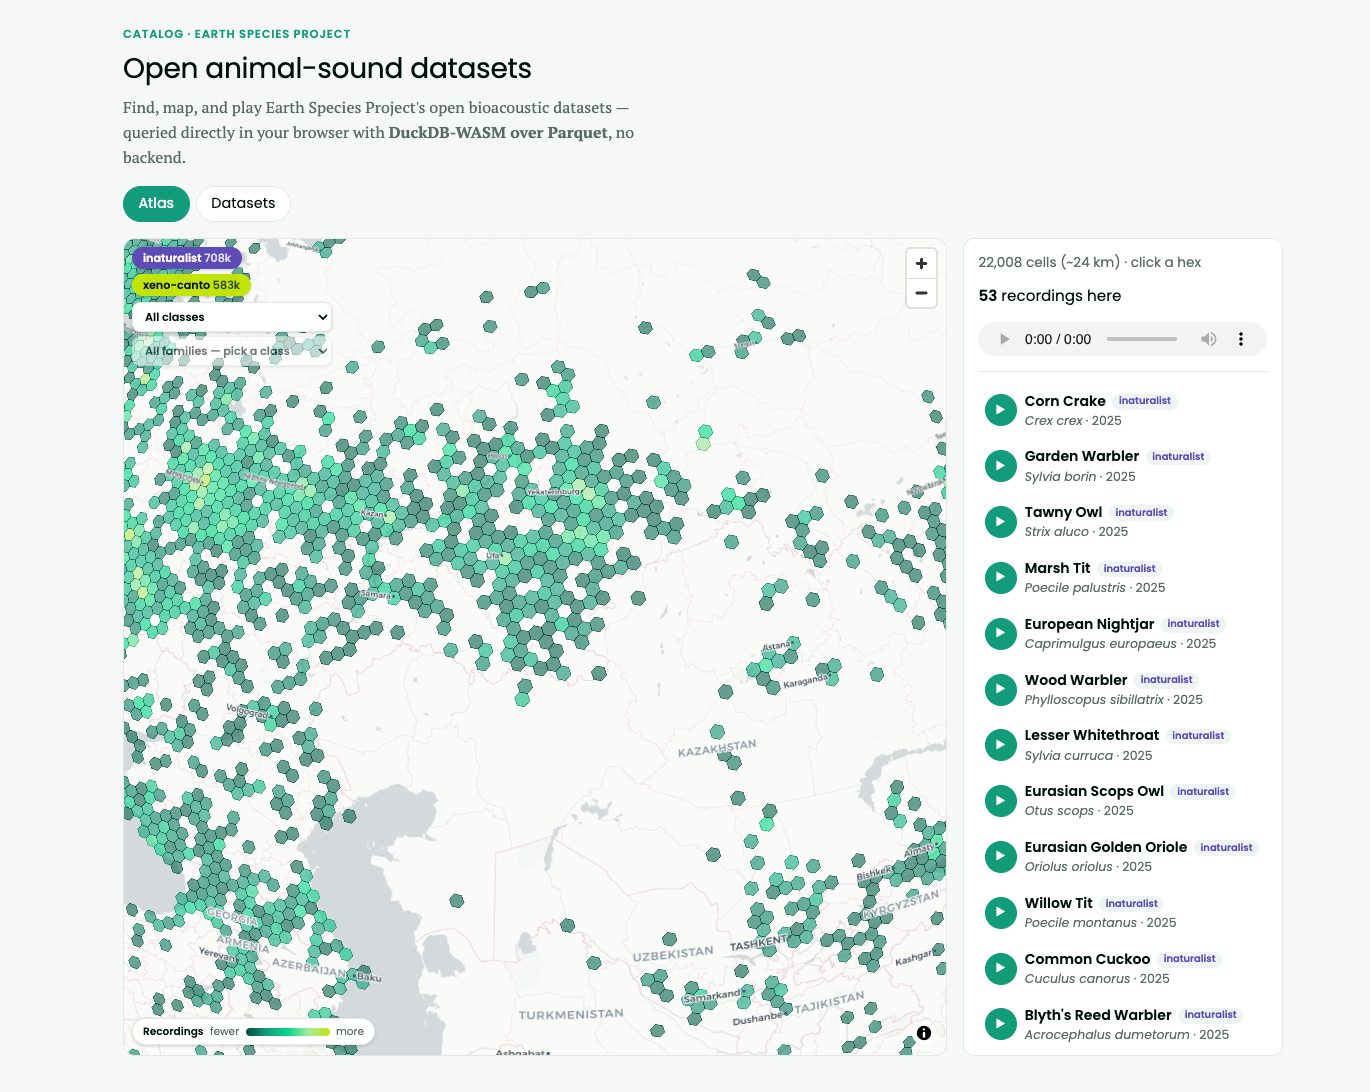
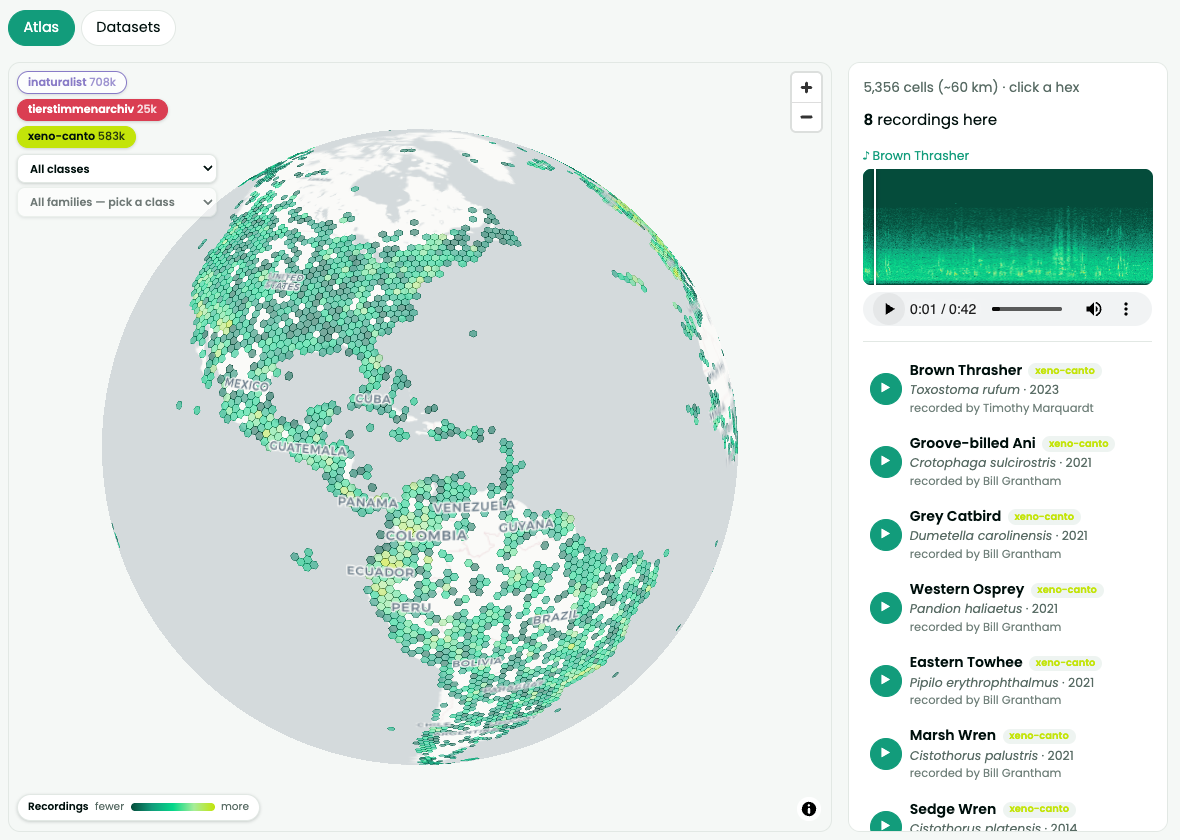
docs: update content, nav restructure, and README contributing section
- Restructure nav with Resources section (API Reference, Explorer, Get Involved)
- Update explorer page description and home page intro
- Fix bullet list rendering in datasets overview
- Rewrite README contributing section with Discourse and GitHub links
- Update community page copy

diff --git a/README.md b/README.md
@@ -2,7 +2,7 @@
 
 [![License: MIT](https://img.shields.io/badge/License-MIT-yellow.svg)](LICENSE)
 
-**alp-data** gives you unified access to dozens of bioacoustic datasets, including recordings from birds, marine mammals, primates, insects, anurans, and multi-taxon benchmarks. Every built-in dataset shares a common `Dataset` interface, with streaming, configurable transforms, and consistent loading regardless of source format.
+**alp-data** (<a href="https://earthspecies.org/2026/04/02/animal-language-processing-an-ai-convergence-in-animal-communication/" target="_blank" rel="noopener">Animal Language Processing</a> data) gives you unified access to dozens of bioacoustic datasets, including recordings from birds, marine mammals, primates, insects, anurans, and multi-taxon benchmarks. Every built-in dataset shares a common `Dataset` interface, with streaming, configurable transforms, and consistent loading regardless of source format.
 
 ## Why alp-data
 
@@ -14,7 +14,7 @@ You can stand up a multi-dataset benchmark, compare models across taxa, or strea
 
 ## What's included
 
-alp-data ships with 30+ built-in datasets across:
+alp-data ships with 35+ built-in datasets across:
 
 - **Birds** — large benchmarks including BirdSet (6,800+ training hours, 10,000 species) and WABAD (1,192 species, 72 sites); aggregator corpora like Xeno-Canto; and site- or species-specific recordings spanning arctic species, Hawaiian soundscapes, the Powdermill dawn chorus, and individual-ID datasets for chiffchaff, little owl, and tree pipit.
 - **Marine mammals** — the Watkins Marine Mammal Sound Database (~13,700 clips across ~50 cetacean and pinniped species), DCLDE 2026 killer whale annotations, dolphin whistle and click corpora
@@ -154,4 +154,6 @@ The datasets accessed through alp-data are governed by their own licenses, set b
 
 ## Contributing
 
-For improvements, bug reports, or proposals, open an issue or pull request.
+If you're working with a bioacoustic dataset you'd like to see in alp-data, <a href="https://forms.gle/qjq2HQiTDkbkLq7K7" target="_blank" rel="noopener">submit this form</a> and the engineering team will follow up. 
+
+For questions and further discussion, join our <a href="https://earthspeciesproject.discourse.group/" target="_blank" rel="noopener">Discourse forum</a>. To report a bug, open an issue on <a href="https://github.com/earthspecies/alp-data/issues" target="_blank" rel="noopener">Github</a>. 

diff --git a/docs/home.md b/docs/home.md
@@ -4,6 +4,9 @@
 
 `alp-data` (<a href="https://earthspecies.org/2026/04/02/animal-language-processing-an-ai-convergence-in-animal-communication/" target="_blank" rel="noopener">Animal Language Processing</a> data) is a <a href="https://pypi.org/project/alp-data/" target="_blank" rel="noopener">Python package</a> that provides access to 35+ bioacoustic datasets behind one unified interface. Designed to support machine learning across species, the current datasets cover birds, marine mammals, primates, insects, anurans, and multi-taxon benchmarks.
 
+This is the first piece of shared infrastructure for Animal Language Processing (ALP), an AI-powered, data-driven, and species-agnostic approach to studying animal communication introduced in <a href="https://earthspecies.org/2026/04/02/animal-language-processing-an-ai-convergence-in-animal-communication/" target="_blank" rel="noopener">April 2026</a>. ALP's promise of working across taxa depends on being able to access ML-friendly data across taxa through a single interface. That access layer is what `alp-data` provides.
+
+
 ### Why alp-data?
 
 Today, bioacoustic datasets are distributed across many repositories — Zenodo, OSF, GBIF, and institutional archives — and each arrives with its own conventions for format, structure, sampling rate, and licensing. As a result, researchers working across multiple datasets must typically invest considerable effort in preprocessing: writing a custom loader for each dataset, then a separate step to combine them, before any of the data can be used together.

diff --git a/docs/community.md b/docs/community.md
@@ -2,12 +2,12 @@
 
 ## Contribute a Dataset
 
-Have a bioacoustic dataset you'd like to see in `alp-data`? Fill out the interest form and the engineering team will follow up.
+If you're working with a bioacoustic dataset you'd like to see in `alp-data`, submit the form below and the engineering team will follow up.
 
 <a href="https://forms.gle/qjq2HQiTDkbkLq7K7" class="ext-btn" target="_blank">Dataset Contributor Form</a>
 
 ## Ask a Question or Report an Issue
 
-Questions about usage, bugs, or feature requests — post on the alp-data Discourse forum.
+Have a question, an interesting use case to share, or want to discuss your work? Join the conversation on the `alp-data` Discourse forum. For bugs or something not working as expected, feel free to open an issue on <a href="https://github.com/earthspecies/alp-data/issues" target="_blank">Github</a>.
 
 <a href="https://earthspeciesproject.discourse.group/" class="ext-btn" target="_blank">Go to Discourse</a>

diff --git a/docs/explorer.md b/docs/explorer.md
@@ -1,9 +1,7 @@
-# Interactive Explorer
+# alp-data Interactive Explorer
 
-<!-- TODO: add link once URL is available -->
-
-Browse and explore the alp-data dataset collection interactively — search by species, taxon, or location, and visualize dataset coverage on geospatial maps.
+Browse a curated selection of `alp-data` datasets with rich metadata — species coverage, recording counts, licenses, and date ranges — with filters by audio type, location, species, and ecosystem. For select datasets, explore their geographic distribution on an interactive map.
 
 ![Interactive Explorer preview](assets/images/explorer-preview.png)
 
-<a href="#" class="ext-btn" target="_blank">Open Interactive Explorer</a>
+<a href="http://alp-explorer.esp.dev/" class="ext-btn" target="_blank">Open Interactive Explorer</a>

diff --git a/docs/datasets.md b/docs/datasets.md
@@ -5,6 +5,7 @@
 The datasets module provides a collection of **datasets validated by the engineering team** and almost entirely sourced from public sources with permissive licenses (for provenance refer to dataset descriptions in [Available Datasets](datasets-available.md)). In short, this is the module to use to download, load and manipulate *official* ALP datasets.
 
 More technically an ALP Dataset is defined as such:
+
 - Inherits from the base `Dataset` class
 - Has a defined `DatasetInfo` containing metadata
 - Provides methods for loading and accessing data and splits
